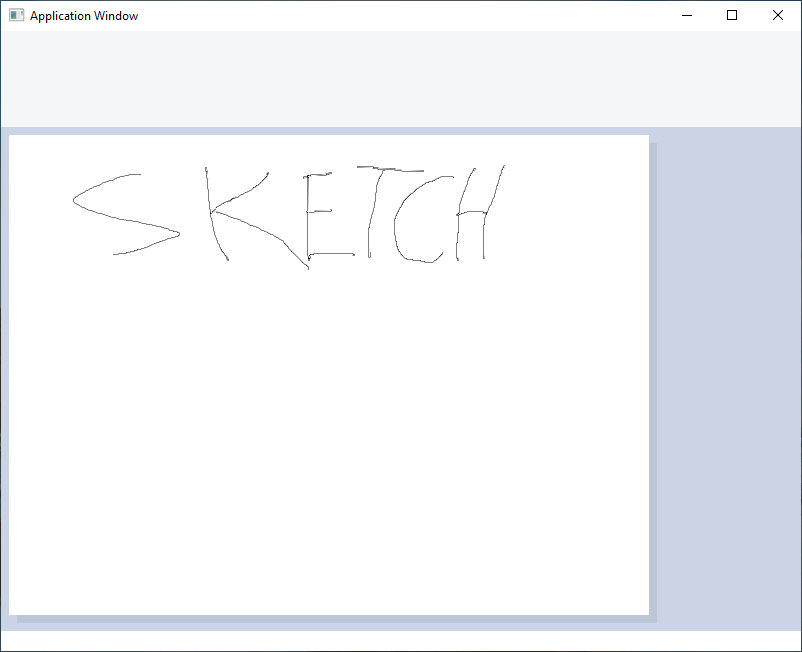
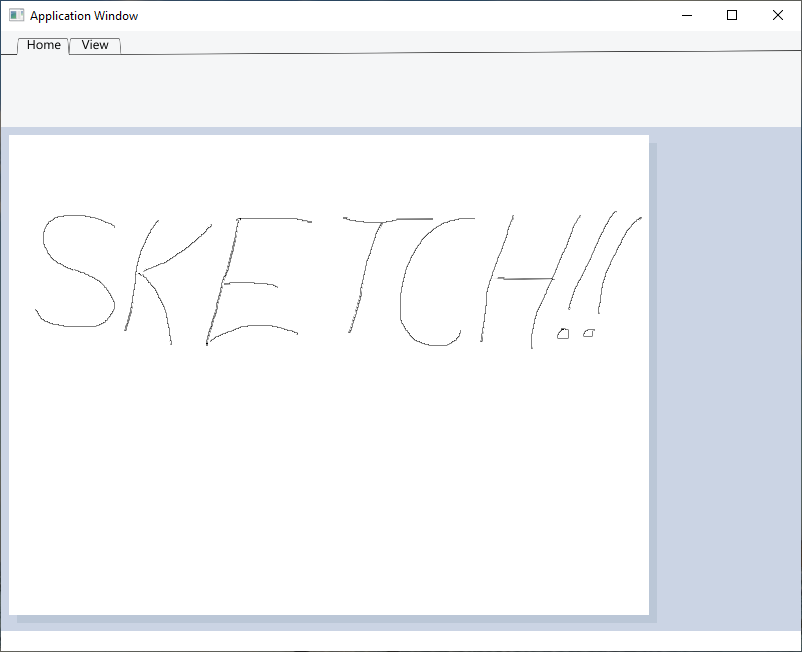
update sketchy update base operators

diff --git a/projects/psily/ps_base_operators.h b/projects/psily/ps_base_operators.h
@@ -8,8 +8,8 @@
 #include <random>
 #include <iostream>
 
-// Setup a dispatch table for base operators
-// These will ultimately be copied into a dictionary
+// Setup a table to contain the base operators
+// These should be copied into a dictionary
 // as OPERATOR tokens
 std::unordered_map < std::string, PS_Operator > PSBaseOperators
 {
@@ -52,9 +52,9 @@ std::unordered_map < std::string, PS_Operator > PSBaseOperators
 	{"pop", [](PSVM& vm) {vm.operandStack().pop(); }},
 
 	{"roll", [](PSVM& vm) {
-		auto j = vm.operandStack().pop();
-		auto n = vm.operandStack().pop();
-		vm.operandStack().roll((int)n->asDouble(), (int)j->asDouble());
+		auto j = vm.popOperand()->asDouble();
+		auto n = vm.popOperand()->asDouble();
+		vm.operandStack().roll((int)n, (int)j);
 	}},
 
 	//{"top", [](PSVM& vm) {vm.operandStack().top(); }},
@@ -65,9 +65,9 @@ std::unordered_map < std::string, PS_Operator > PSBaseOperators
 	// Arithmetic and Mathematical Operators
 	// Pop two arguments off stack, put result back on stack
 	{"add", [](PSVM& vm) {
-			auto num2 = vm.operandStack().pop();
-			auto num1 = vm.operandStack().pop();
-			auto tok = make_shared<PSToken>(num1->asDouble() + num2->asDouble());
+			auto num2 = vm.popOperand()->asDouble();
+			auto num1 = vm.popOperand()->asDouble();
+			auto tok = make_shared<PSToken>(num1 + num2);
 
 			vm.pushOperand(tok);
 	}},
@@ -281,8 +281,8 @@ std::unordered_map < std::string, PS_Operator > PSBaseOperators
 	
 	// load
 	{ "load", [](PSVM& vm) {
-		auto key = vm.popOperand()->asString();
-		auto value = vm.dictionaryStack().load(key);
+		auto keyName = vm.popOperand()->asString();
+		auto value = vm.dictionaryStack().load(keyName);
 
 		if (nullptr == value) {
 			// print undefined key
@@ -296,9 +296,9 @@ std::unordered_map < std::string, PS_Operator > PSBaseOperators
 	// store
 	{ "store", [](PSVM& vm) {
 		auto value = vm.popOperand();
-		auto key = vm.popOperand()->asString();
+		auto keyName = vm.popOperand()->asString();
 
-		vm.dictionaryStack().store(key, value);
+		vm.dictionaryStack().store(keyName, value);
 	} },
 
 	// where
@@ -398,7 +398,7 @@ std::unordered_map < std::string, PS_Operator > PSBaseOperators
 	// without disturbing stack contents
 	{ "stack", [](PSVM& vm) {
 		for (auto& it : vm.operandStack().fContainer) {
-			//std::cout << it->fData << std::endl;
+			it->printValue(std::cout);
 		}
 	} },
 	

diff --git a/primary/tabbedview.h b/primary/tabbedview.h
@@ -10,8 +10,6 @@
 
 
 class TabbedView : public Graphic {
-
-	//BLRect fFrame;		// frame for the whole graphic
 	
 	// Content Area details
 	GPath fWholePath;
@@ -58,7 +56,6 @@ public:
 	void setTabColor(const Pixel& c) { fTabColor = c; }
 
 	void drawBackground(IGraphics* ctx)
-	//virtual void draw(IGraphics* ctx) 
 	{
 		// Stroke the overall outline
 		// Stroke this first, and allow the filling to

diff --git a/projects/sketchy/sketchy.cpp b/projects/sketchy/sketchy.cpp
@@ -36,7 +36,7 @@ Pixel canvasColor(255,255,255);
 Pixel canvasShadowColor(187, 199, 215);
 
 // Tabs for the toolbar
-TabViewSet tabSet;
+TabViewSet tabSet(800,100);
 
 void draw()
 {
